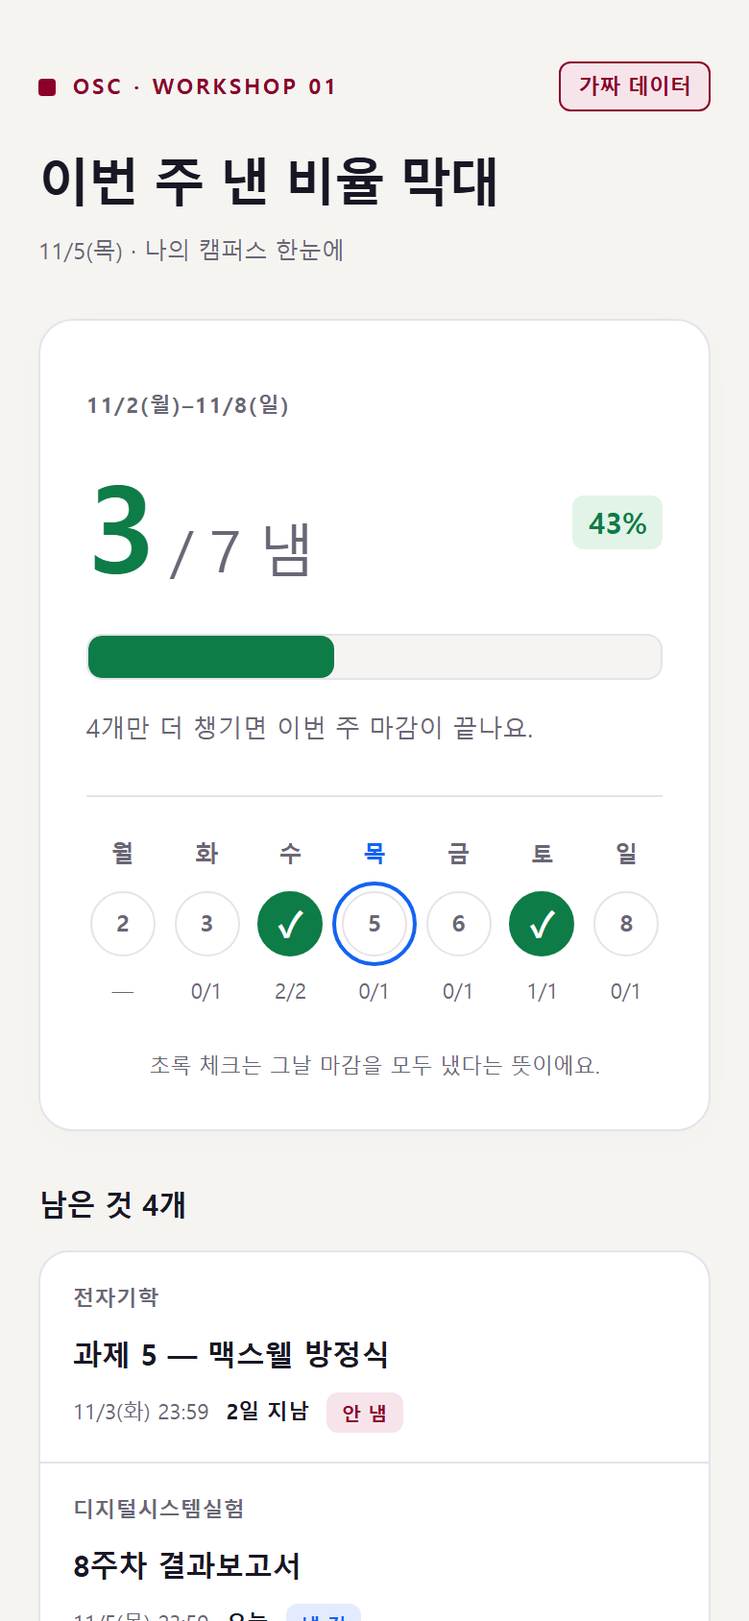
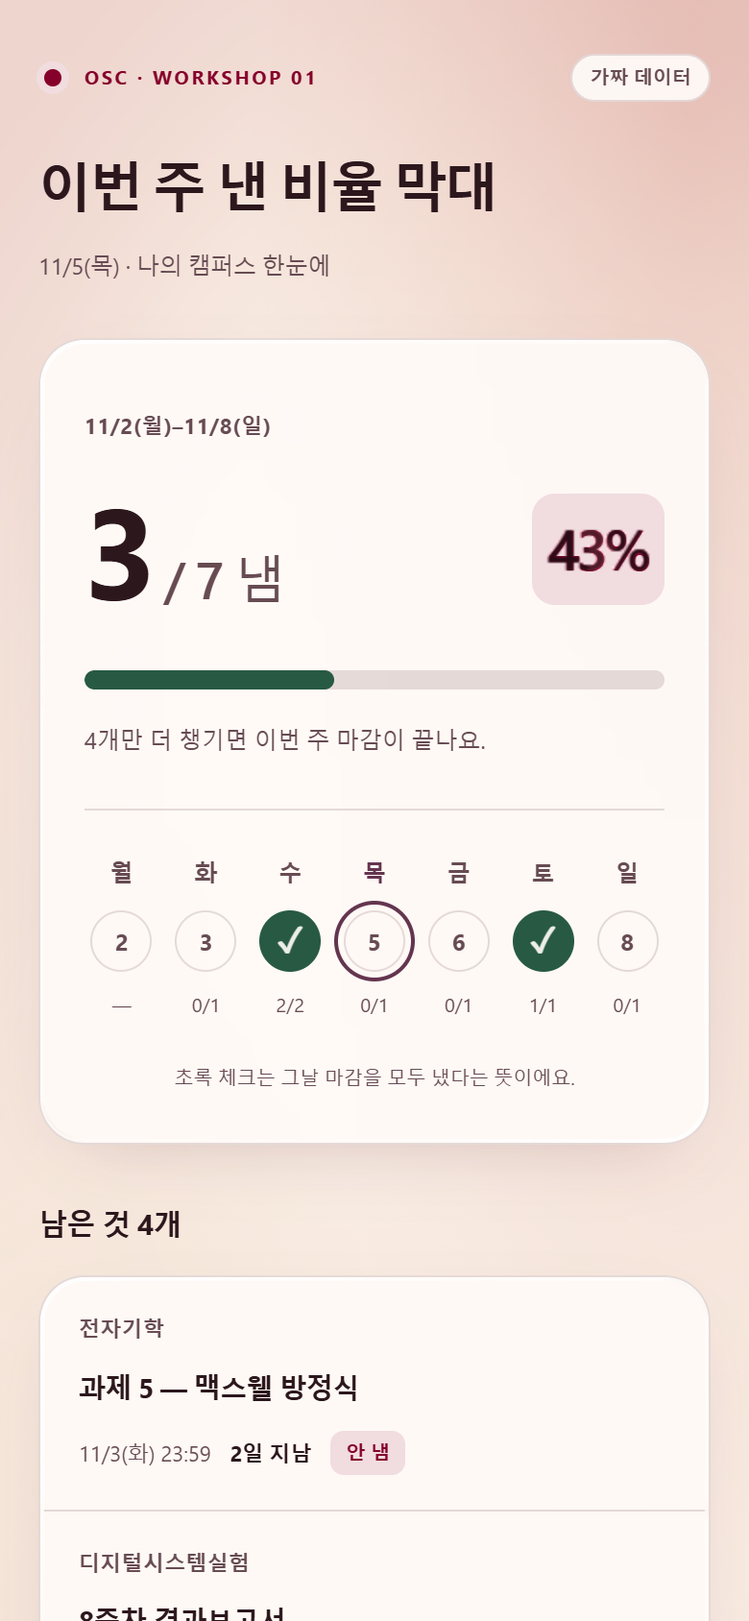
화면 디자인 v2: 그라데이션 바탕·유리 카드·금속 숫자
스크랩한 저장소 넷(ShaderGradient, liquid-logo, liquid-glass-js,
react-three-fiber)의 기법을 라이브러리 없이 인라인 WebGL/CSS로 옮김.
출력은 여전히 한 파일, 외부 요청 0. README BONUS 장 번호 39장으로.

Claude-Session: https://claude.ai/code/session_01FeLyEiJXykZiSBiLt2XKtj

diff --git a/dash.py b/dash.py
@@ -523,6 +523,126 @@ details{min-width:0}summary{min-height:44px;padding:12px 0;font-weight:700;overf
 '''
 
 
+_GLASS_CREDIT = '''<!-- Glass edge technique inspired by liquid-glass-js (MIT, Copyright (c) 2025 Armagan Amcalar).
+Original compact CSS/SVG implementation; no library or screenshot capture code is bundled.
+Permission is hereby granted, free of charge, to any person obtaining a copy of this software and associated documentation files (the "Software"), to deal in the Software without restriction, including without limitation the rights to use, copy, modify, merge, publish, distribute, sublicense, and/or sell copies of the Software, and to permit persons to whom the Software is furnished to do so, subject to the following conditions: The above copyright notice and this permission notice shall be included in all copies or substantial portions of the Software. THE SOFTWARE IS PROVIDED "AS IS", WITHOUT WARRANTY OF ANY KIND, EXPRESS OR IMPLIED, INCLUDING BUT NOT LIMITED TO THE WARRANTIES OF MERCHANTABILITY, FITNESS FOR A PARTICULAR PURPOSE AND NONINFRINGEMENT. IN NO EVENT SHALL THE AUTHORS OR COPYRIGHT HOLDERS BE LIABLE FOR ANY CLAIM, DAMAGES OR OTHER LIABILITY, WHETHER IN AN ACTION OF CONTRACT, TORT OR OTHERWISE, ARISING FROM, OUT OF OR IN CONNECTION WITH THE SOFTWARE OR THE USE OR OTHER DEALINGS IN THE SOFTWARE.
+-->
+'''
+
+_GLASS_SVG = '''<svg class="glass-defs" width="0" height="0" aria-hidden="true" focusable="false"><defs><filter id="osc-glass-edge" x="-10%" y="-10%" width="120%" height="120%" color-interpolation-filters="sRGB"><feTurbulence type="fractalNoise" baseFrequency=".012 .035" numOctaves="1" seed="8" result="edgeNoise"/><feDisplacementMap in="SourceGraphic" in2="edgeNoise" scale="5" xChannelSelector="R" yChannelSelector="G"/></filter></defs></svg>'''
+
+_POLISH_CSS = r'''
+:root{--bg:#f6ece4;--paper:rgba(255,251,247,.92);--ink:#2c171d;--muted:#674b53;--line:rgba(92,47,58,.16);--crimson:#85002a;--green:#285a43;--blue:#64354f;--rose:#f1dce0;--mint:#e2ebe1;--sky:#eee2e9;--shadow:0 14px 40px -24px rgba(70,11,33,.30),inset 0 1px 0 rgba(255,255,255,.95);--rim:rgba(255,255,255,.88);--glass-solid:#fff8f2}
+@media(prefers-color-scheme:dark){:root{--bg:#190b13;--paper:rgba(35,18,28,.94);--ink:#fff3eb;--muted:#d9bec4;--line:rgba(240,204,202,.20);--crimson:#f2b2bf;--green:#b3dfc1;--blue:#e3c2da;--rose:#48212f;--mint:#223b2c;--sky:#3b2839;--shadow:0 18px 46px -20px #05010688,inset 0 1px 0 #f8dac326;--rim:rgba(255,234,217,.34);--glass-solid:#24121d}}
+html{font-family:-apple-system,BlinkMacSystemFont,"Segoe UI","Apple SD Gothic Neo","Malgun Gothic",sans-serif;line-height:1.7;background:var(--bg);color:var(--ink)}
+body{min-width:0;background:transparent}main{padding:28px 20px 32px;max-width:800px;position:relative}main.wide{max-width:1160px}.glass-defs{position:absolute;overflow:hidden;pointer-events:none}
+.page-head{margin-bottom:28px}.brandline{margin-bottom:26px;gap:8px}.wordmark{font-size:10px;letter-spacing:1.3px;font-weight:750;color:var(--crimson)}.wordmark:before{width:9px;height:9px;border-radius:50%;box-shadow:0 0 0 4px var(--rose);margin:0 3px}
+.sample-badge{color:var(--muted);background:var(--paper);border:1px solid var(--line);border-radius:99px;font-size:10px;font-weight:600;padding:3px 9px}
+h1{font-size:28px;line-height:1.32;letter-spacing:-1.4px;font-weight:750;margin:0 0 12px;max-width:680px}.head-date{font-size:12px;letter-spacing:-.15px;color:var(--muted)}
+.section{margin:29px 0}.section-head{font-size:15px;font-weight:750;letter-spacing:-.35px;margin-bottom:14px}.eyebrow,.course{font-size:11px;font-weight:650;letter-spacing:.15px;color:var(--muted)}.eyebrow{letter-spacing:.4px}.course{line-height:1.6}
+.card,.task-list,.missing-hero,.empty,.sq-results,.sq-quest-list{position:relative;isolation:isolate;background:var(--paper);border:1px solid var(--line);border-radius:24px;box-shadow:var(--shadow);-webkit-backdrop-filter:blur(18px) saturate(1.08);backdrop-filter:blur(18px) saturate(1.08)}
+.card:before,.task-list:before,.missing-hero:before,.sq-results:before,.sq-quest-list:before{content:"";position:absolute;inset:0;padding:2px;border-radius:inherit;pointer-events:none;z-index:2;background:linear-gradient(135deg,var(--rim),transparent 26%,transparent 65%,var(--rim));-webkit-mask:linear-gradient(#fff 0 0) content-box,linear-gradient(#fff 0 0);-webkit-mask-composite:xor;mask:linear-gradient(#fff 0 0) content-box,linear-gradient(#fff 0 0);mask-composite:exclude;-webkit-backdrop-filter:blur(3px);backdrop-filter:blur(3px) url(#osc-glass-edge)}
+.card{padding:24px}.task-list{overflow:hidden}.task-row{padding:18px 20px}.task-row+.task-row{border-top:1px solid var(--line)}.task-title{font-size:14px;font-weight:650;letter-spacing:-.25px;line-height:1.6}.task-title a{padding:4px 0;min-height:44px}.meta{font-size:11px;gap:7px 10px;line-height:1.6}.due-tag{font-weight:650}
+.pill{font-size:10px;font-weight:650;letter-spacing:0;padding:4px 8px;border-radius:7px}.empty{border-style:dashed;padding:28px 20px}.empty p{font-size:13px}.hero-note{opacity:1}.page-foot{font-size:10px;line-height:1.9;margin-top:34px;border-color:var(--line);padding:18px 2px;color:var(--muted)}
+button{box-shadow:inset 0 1px 0 var(--rim);border-radius:99px}button:hover{border-color:var(--crimson)}a:focus-visible,button:focus-visible,summary:focus-visible,input:focus-visible{outline-color:var(--crimson)}
+.missing-hero{padding:26px 24px;color:var(--ink);background:var(--paper)}.missing-hero .eyebrow{color:var(--muted)}.missing-hero h2{font-size:24px;margin:13px 0 18px;line-height:1.1;letter-spacing:-1px}.missing-hero strong{font-size:76px;letter-spacing:-4px;font-weight:650;color:var(--crimson)}.missing-hero p{font-size:12px;color:var(--ink)}.hero-note{color:var(--muted)}
+.cal-board.card{padding:24px 0 0}.cal-month-head{padding:0 22px;align-items:center}.cal-month-head h2{font-size:15px;letter-spacing:-.3px;font-weight:500;display:flex;gap:12px;align-items:baseline;margin-top:8px}.cal-month-head h2 strong{font-size:60px;line-height:1.12;letter-spacing:-3px;font-weight:650;color:var(--crimson)}.cal-month-head .eyebrow{font-size:11px;margin:0}.cal-today-label{border:1px solid var(--line);color:var(--crimson);background:var(--rose);font-size:11px;padding:5px 9px;border-radius:99px}
+.cal-legend{padding:17px 22px;gap:14px;font-size:11px}.cal-legend i{width:6px;height:6px;border-radius:50%}.cal-weekdays{padding:9px 0;background:transparent;font-size:10px;border-top-color:var(--line)}.cal-day{min-height:75px;padding:4px 2px;border-color:var(--line)}.cal-blank{background:transparent}.cal-date{font-size:11px;font-weight:600;width:24px;height:24px;margin:0 auto 4px;font-variant-numeric:tabular-nums}.cal-today{background:var(--rose)}.cal-today .cal-date{border:0;background:var(--crimson);color:var(--glass-solid);box-shadow:0 0 0 2px var(--paper);font-weight:750}.cal-chip{border-radius:5px;font-size:10px;line-height:1.2;min-height:40px}.cal-chip-title a,.cal-chip-title>span{min-width:0;min-height:40px;line-height:28px;padding:6px 2px 6px 12px;font-weight:600}.cal-check{left:2px;width:7px;height:7px;top:17px;font-size:7px}.cal-chips{gap:3px}.cal-todo{color:var(--ink);background:var(--sky)}.cal-grid-note{font-size:10px;padding:0 18px 14px;margin:12px 0 0}.cal-agenda-date{margin-bottom:10px;padding:0 3px}.cal-agenda-date h3{font-size:13px}.cal-event-row.card{border:0;box-shadow:none;border-radius:0;background:transparent;padding:18px 20px}.cal-event-row:before{display:none}.cal-agenda-day .task-list{display:block}
+.mat-intro.card{padding:26px 24px;background:var(--paper);margin-bottom:24px}.mat-lead{font-size:21px;line-height:1.4;font-weight:650;margin:12px 0 20px;letter-spacing:-.65px}.mat-overall{font-size:14px;margin:0 0 20px;color:var(--crimson);line-height:1.4}.mat-overall strong{font-size:56px;font-weight:650;letter-spacing:-2.5px;margin-left:7px}.mat-overall strong span{font-size:27px;font-weight:450;letter-spacing:-1px}.mat-intro .muted{font-size:12px;line-height:1.85}.materials-list{gap:18px}.mat-course.card{padding:0}.mat-course>summary{padding:18px 20px;min-height:72px;gap:8px}.mat-course-name{font-size:16px;font-weight:700;letter-spacing:-.4px}.mat-counter{font-size:11px;font-weight:500;color:var(--muted)}.mat-weeks{padding:0 18px 10px}.mat-week>summary{min-height:62px;gap:7px}.mat-week-heading{font-size:13px;font-weight:650;gap:5px}.mat-latest{font-size:9px;color:var(--crimson);background:var(--rose);border-radius:4px;padding:3px 5px}.mat-row{min-height:60px;gap:8px}.mat-title{font-size:13px;line-height:1.6;letter-spacing:-.1px}.mat-check{min-height:48px;min-width:40px}.mat-check input{width:18px;height:18px}.mat-kind,.mat-kind svg{width:17px}.mat-kind{flex-basis:17px}.mat-subhead{font-size:11px;letter-spacing:.2px}.mat-hidden{font-size:11px;line-height:1.7}
+.week-hero.card{padding:25px 23px}.week-progress-head h2 strong{font-size:66px;color:var(--ink);font-weight:650;letter-spacing:-3px}.week-progress-head h2>span{font-size:27px}.week-percent{font-size:29px;font-weight:600;letter-spacing:-1.5px;padding:7px 8px;border-radius:12px;background:var(--rose);color:var(--crimson)}.week-bar{height:10px;border:0;border-radius:99px;margin-top:25px;background:var(--line)}.week-bar>span{border-radius:99px}.week-encouragement{margin:16px 0 26px;font-size:12px}.week-days{padding-top:22px;gap:5px}.week-day-count{font-size:10px}.week-key{font-size:10px}.week-dot{width:32px;height:32px}.week-completed.card{padding:0}.week-completed-content .card{background:var(--paper)}
+.score-overview{margin:0 0 24px;display:flex;align-items:center;justify-content:space-between;gap:15px;flex-wrap:wrap}.score-overview .eyebrow{margin:0 0 12px}.sq-average{font-size:58px;line-height:1.15;font-weight:650;letter-spacing:-2.5px;color:var(--crimson);font-variant-numeric:tabular-nums}.sq-average>span:not(.sq-number){font-size:24px;letter-spacing:-.5px;margin-left:3px}.score-overview p.muted{font-size:11px;margin:12px 0 0}.sq-toolbar{gap:12px;align-items:center}.sq-toolbar p{font-size:12px}.sq-toolbar button{border-radius:99px;font-size:11px;padding:10px 13px;min-height:44px}.sq-score-grid{gap:12px}.sq-score-card.card{padding:19px 16px;border-radius:20px}.sq-course-title{font-size:13px;min-height:44px;margin-bottom:16px;font-weight:650}.sq-score{font-size:31px;font-weight:650;letter-spacing:-1.7px}.sq-grade{color:var(--crimson);font-size:11px}.sq-score-bar{height:3px;margin-top:15px}.sq-score-bar>span{background:var(--crimson)}.sq-sparkline polyline{stroke:var(--crimson)}.sq-sparkline circle{fill:var(--crimson)}.sq-chart-caption{font-size:10px}.sq-results{padding:2px 20px;list-style:none}.sq-result-row{gap:10px}.sq-result-score{font-size:12px}.sq-result-percent{font-size:11px}.numbers-hidden .fx-metal{visibility:hidden!important}
+.news-intro.card{background:var(--paper);padding:25px 23px}.news-stats{gap:6px 12px;margin:14px 0 16px;font-size:13px}.news-stats strong{font-size:37px;font-weight:650;letter-spacing:-2px;color:var(--crimson)}.news-intro .muted{font-size:11px}.news-entries.card{padding:0 22px}.news-course-head h2{font-size:14px}.news-entry-head h3{font-size:14px;line-height:1.65;font-weight:650}.news-excerpt{font-size:12px;color:var(--muted);line-height:1.85}.news-time{font-size:10px}.news-dot{background:var(--crimson)}
+.sq-hero.card{background:var(--paper);border-color:var(--line);padding:24px 20px;grid-template-columns:122px minmax(0,1fr);gap:15px}.sq-character-stats h2{font-size:17px;font-weight:650;line-height:1.5}.sq-character-stats .eyebrow{color:var(--muted)}.sq-level{color:var(--crimson);background:var(--rose);font-size:12px;font-weight:700;letter-spacing:.8px;border-color:transparent}.sq-stat-label{font-size:11px}.sq-next-level{font-size:10px;line-height:1.7}.sq-quest-list{padding:0 18px}.sq-xp-reward{font-size:10px;padding:5px 7px}.sq-quest-row{gap:9px}.sq-game-rules{font-size:11px}.sq-quest-help,.sq-quest-intro{font-size:12px}
+@supports not ((backdrop-filter:blur(1px)) or (-webkit-backdrop-filter:blur(1px))){.card,.task-list,.missing-hero,.empty,.sq-results,.sq-quest-list{background:var(--glass-solid)}.card:before,.task-list:before,.missing-hero:before,.sq-results:before,.sq-quest-list:before{backdrop-filter:none;background:linear-gradient(135deg,var(--rim),transparent 40%)}}
+@media(min-width:760px){main{padding:48px 32px 40px}h1{font-size:36px;letter-spacing:-1.7px}.brandline{margin-bottom:30px}.page-head{margin-bottom:34px}.card{padding:30px}.task-row{padding:20px 24px}.mat-intro.card{padding:32px}.mat-overall strong{font-size:70px}.missing-hero{padding:32px}.sq-hero.card{padding:30px;grid-template-columns:180px minmax(0,1fr);gap:30px}.sq-score-card.card{padding:24px 20px}.sq-course-title{font-size:15px}.sq-score{font-size:38px}.sq-results{padding:4px 24px}.cal-day{min-height:83px;padding:6px 4px}.cal-date{margin:0 0 5px auto}.cal-chip-title a,.cal-chip-title>span{padding-left:15px}.cal-check{left:4px}.cal-chip{font-size:11px}.week-hero.card{padding:32px}.week-percent{font-size:36px}}
+@media(min-width:1060px){.view-calendar main{display:grid;grid-template-columns:minmax(0,1.65fr) minmax(0,1fr);gap:0 28px;align-items:start}.view-calendar .page-head,.view-calendar .page-foot{grid-column:1/-1}.view-calendar .cal-board{grid-column:1;grid-row:2}.view-calendar main>.section{grid-column:2;margin:0 0 26px}.view-calendar .cal-agenda-day{margin-bottom:20px}.view-calendar .cal-agenda-day .task-row,.view-calendar .cal-event-row.card{padding:16px 18px}.view-calendar .cal-month-head h2 strong{font-size:70px}.view-materials main{max-width:1100px;display:grid;grid-template-columns:minmax(0,.82fr) minmax(0,1.18fr);gap:0 28px;align-items:start}.view-materials .page-head,.view-materials .page-foot{grid-column:1/-1}.view-materials .mat-intro{position:sticky;top:28px}.view-materials .materials-list{grid-column:2}.view-materials .mat-overall strong{font-size:72px}}
+@media(max-width:370px){main{padding-left:16px;padding-right:16px}.cal-month-head h2 strong{font-size:52px}.week-progress-head h2 strong{font-size:52px}.week-progress-head h2>span{font-size:23px}.week-percent{font-size:24px}.mat-course>summary{padding-left:16px;padding-right:16px}.sq-hero.card{grid-template-columns:104px minmax(0,1fr);padding:22px 16px;gap:10px}}
+'''
+
+
+# Original, self-contained shaders; no third-party shader source copied.
+_FX_CREDIT = '''<!-- Visual technique references: ruucm/shadergradient (package MIT, no root LICENSE: idea only); paper-design/liquid-logo (PolyForm Shield 1.0.0: idea only); pmndrs/react-three-fiber (MIT, Poimandres: scene and render-loop concepts only). All GLSL and WebGL code below is original. No React, Three.js, fonts, or network assets are included. -->'''
+
+_FX_HTML = '<canvas class="fx-bg" aria-hidden="true" data-fx="pending"></canvas>'
+
+_FX_CSS = r'''
+body{isolation:isolate;background:radial-gradient(ellipse at 92% 4%,#e6b9ae 0,transparent 45%),radial-gradient(ellipse at 8% 75%,#eed5c2 0,transparent 52%),#faf1e8}
+body>main{position:relative;z-index:1}.fx-bg{position:fixed;inset:0;width:100%;height:100%;z-index:0;pointer-events:none;opacity:.56}
+.fx-metal-target{position:relative;display:inline-block;vertical-align:baseline}.fx-metal{position:absolute;inset:0;width:100%;height:100%;pointer-events:none;z-index:1}.numbers-hidden .fx-metal{visibility:hidden!important}
+@media(prefers-color-scheme:dark){body{background:radial-gradient(ellipse at 95% 0,#4b102b 0,transparent 50%),radial-gradient(ellipse at 5% 80%,#351423 0,transparent 55%),#160c14}.fx-bg{opacity:.7}}
+@media print{.fx-bg,.fx-metal{display:none!important}}
+'''
+
+_FX_JS = r'''
+(function(){
+'use strict';
+var bg=document.querySelector('.fx-bg');if(!bg)return;
+var dark=matchMedia('(prefers-color-scheme: dark)'),reduced=matchMedia('(prefers-reduced-motion: reduce)');
+var state=window.__oscFx={background:false,metal:false,frames:0,metalFrames:0,fpsLimit:24,dpr:1,reduced:reduced.matches,paused:document.hidden,errors:[]};
+var jobs=[],raf=0,last=-1000,elapsed=0,previous=0;
+function program(canvas,vertex,fragment){
+ var gl=canvas.getContext('webgl',{alpha:true,antialias:false,preserveDrawingBuffer:true,powerPreference:'low-power'});
+ if(!gl){canvas.dataset.fx='fallback';canvas.style.display='none';return null;}
+ function shader(type,src){var s=gl.createShader(type);gl.shaderSource(s,src);gl.compileShader(s);if(!gl.getShaderParameter(s,gl.COMPILE_STATUS)){throw new Error(gl.getShaderInfoLog(s));}return s;}
+ var p=gl.createProgram();gl.attachShader(p,shader(gl.VERTEX_SHADER,vertex));gl.attachShader(p,shader(gl.FRAGMENT_SHADER,fragment));gl.linkProgram(p);
+ if(!gl.getProgramParameter(p,gl.LINK_STATUS))throw new Error(gl.getProgramInfoLog(p));gl.useProgram(p);
+ canvas.dataset.fx='ready';canvas.addEventListener('webglcontextlost',function(e){e.preventDefault();canvas.style.display='none';canvas.dataset.fx='fallback';});
+ return {gl:gl,p:p,uniform:function(n){return gl.getUniformLocation(p,n);}};
+}
+function buffer(gl,p,data){var b=gl.createBuffer();gl.bindBuffer(gl.ARRAY_BUFFER,b);gl.bufferData(gl.ARRAY_BUFFER,new Float32Array(data),gl.STATIC_DRAW);var a=gl.getAttribLocation(p,'a');gl.enableVertexAttribArray(a);gl.vertexAttribPointer(a,2,gl.FLOAT,false,0,0);}
+var noise='float hash3(vec3 p){return fract(sin(dot(p,vec3(17.17,71.31,153.17)))*17351.719);}float noise3(vec3 p){vec3 i=floor(p),f=fract(p);f=f*f*(3.0-2.0*f);float a=mix(hash3(i),hash3(i+vec3(1,0,0)),f.x);float b=mix(hash3(i+vec3(0,1,0)),hash3(i+vec3(1,1,0)),f.x);float c=mix(hash3(i+vec3(0,0,1)),hash3(i+vec3(1,0,1)),f.x);float d=mix(hash3(i+vec3(0,1,1)),hash3(i+vec3(1,1,1)),f.x);return mix(mix(a,b,f.y),mix(c,d,f.y),f.z);}';
+try{
+ var scene=program(bg,'precision mediump float;attribute vec2 a;uniform float t,aspect;varying vec2 uv;varying float elevation;'+noise+'void main(){uv=a*.5+.5;vec3 q=vec3(a*1.14,t*.035);float n=noise3(q)+.34*noise3(q*2.7+4.0);float z=(n-.65)*1.8;vec3 world=vec3(a.x*aspect*5.6,a.y*5.6,z);float cy=cos(.18),sy=sin(.18);world.yz=mat2(cy,-sy,sy,cy)*world.yz;float depth=6.0-world.z;gl_Position=vec4(world.x*1.6/aspect,world.y*1.6,0.0,depth);elevation=n;}',
+ 'precision mediump float;uniform float t,darkMode;varying vec2 uv;varying float elevation;'+noise+'void main(){float drift=noise3(vec3(uv*2.0,t*.022));float bloom=smoothstep(.42,.92,drift+.16*elevation);vec3 cream=vec3(.945,.839,.761),beige=vec3(.867,.655,.545),crimson=vec3(.545,0.,.157),ink=vec3(.086,.016,.024);vec3 light=mix(mix(cream,vec3(1.0),.53),beige,.19*bloom);light=mix(light,crimson,.15*bloom*bloom);vec3 night=mix(ink,crimson,.09+.29*bloom);night+=vec3(.018,.008,.023)*elevation;gl_FragColor=vec4(mix(light,night,darkMode),1.0);}');
+ if(scene){var mesh=[],nx=56,ny=48;for(var y=0;y<ny;y++)for(var x=0;x<nx;x++){var x0=x/nx*2-1,x1=(x+1)/nx*2-1,y0=y/ny*2-1,y1=(y+1)/ny*2-1;mesh.push(x0,y0,x1,y0,x0,y1,x0,y1,x1,y0,x1,y1);}buffer(scene.gl,scene.p,mesh);var st=scene.uniform('t'),sa=scene.uniform('aspect'),sd=scene.uniform('darkMode');
+ jobs.push(function(time){var gl=scene.gl,w=Math.max(1,innerWidth),h=Math.max(1,innerHeight);if(bg.width!==w||bg.height!==h){bg.width=w;bg.height=h;}gl.viewport(0,0,w,h);gl.uniform1f(st,time);gl.uniform1f(sa,w/h);gl.uniform1f(sd,dark.matches?1:0);gl.drawArrays(gl.TRIANGLES,0,mesh.length/2);state.frames++;});state.background=true;}
+}catch(e){state.errors.push(String(e));bg.dataset.fx='fallback';bg.style.display='none';}
+var target=document.querySelector('.missing-hero strong,.cal-month-head h2 strong,#mat-overall,.week-percent,.sq-average,.news-stats strong,.sq-level');
+if(!target&&document.body.classList.contains('view-scores'))target=document.querySelector('.sq-score');
+if(target){try{
+ var wrap=document.createElement('span');wrap.className='fx-metal-target';target.parentNode.insertBefore(wrap,target);wrap.appendChild(target);
+ var metal=document.createElement('canvas');metal.className='fx-metal';metal.setAttribute('aria-hidden','true');metal.dataset.fx='pending';wrap.appendChild(metal);
+ var m=program(metal,'attribute vec2 a;varying vec2 uv;void main(){uv=a*.5+.5;gl_Position=vec4(a,0,1);}',
+ 'precision mediump float;varying vec2 uv;uniform sampler2D mask;uniform vec2 pixel;uniform float t,darkMode;void main(){vec2 p=vec2(uv.x,1.-uv.y);float alpha=texture2D(mask,p).a;if(alpha<.01){gl_FragColor=vec4(0);return;}float gx=texture2D(mask,p+vec2(pixel.x,0)).a-texture2D(mask,p-vec2(pixel.x,0)).a;float gy=texture2D(mask,p+vec2(0,pixel.y)).a-texture2D(mask,p-vec2(0,pixel.y)).a;float wave=sin(p.x*10.5+p.y*5.2+sin(p.y*7.8-t*.37)*1.45+t*.21);float sheen=smoothstep(.22,.72,wave);float rim=clamp(abs(gx)+abs(gy),0.,1.);vec3 low=mix(vec3(.13,.025,.065),vec3(.77,.67,.63),darkMode);vec3 high=mix(vec3(.34,.12,.18),vec3(1.,.94,.86),darkMode);vec3 color=mix(low,high,clamp(.14+sheen*.69+rim*.17,0.,1.));gl_FragColor=vec4(color,alpha);}');
+ if(m){buffer(m.gl,m.p,[-1,-1,1,-1,-1,1,-1,1,1,-1,1,1]);var tex=m.gl.createTexture();m.gl.bindTexture(m.gl.TEXTURE_2D,tex);m.gl.texParameteri(m.gl.TEXTURE_2D,m.gl.TEXTURE_WRAP_S,m.gl.CLAMP_TO_EDGE);m.gl.texParameteri(m.gl.TEXTURE_2D,m.gl.TEXTURE_WRAP_T,m.gl.CLAMP_TO_EDGE);m.gl.texParameteri(m.gl.TEXTURE_2D,m.gl.TEXTURE_MIN_FILTER,m.gl.LINEAR);m.gl.texParameteri(m.gl.TEXTURE_2D,m.gl.TEXTURE_MAG_FILTER,m.gl.LINEAR);
+ var mask=document.createElement('canvas'),ctx=mask.getContext('2d'),mt=m.uniform('t'),md=m.uniform('darkMode'),mp=m.uniform('pixel'),dirty=true,lastText='';
+ function updateMask(){
+  var r=wrap.getBoundingClientRect(),w=Math.max(1,Math.ceil(r.width)),h=Math.max(1,Math.ceil(r.height)),text=target.textContent;
+  if(!dirty&&text===lastText&&metal.width===w&&metal.height===h)return;
+  dirty=false;lastText=text;metal.width=mask.width=w;metal.height=mask.height=h;ctx.textAlign='left';ctx.textBaseline='alphabetic';ctx.fillStyle='#fff';
+  var walker=document.createTreeWalker(target,NodeFilter.SHOW_TEXT),node,range=document.createRange();
+  while((node=walker.nextNode())){
+   var s=getComputedStyle(node.parentElement);if(s.visibility==='hidden'||s.display==='none')continue;
+   ctx.font=s.fontStyle+' '+s.fontWeight+' '+s.fontSize+' '+s.fontFamily;
+   if('fontKerning' in ctx)ctx.fontKerning=s.fontKerning;
+   if('letterSpacing' in ctx)ctx.letterSpacing=s.letterSpacing==='normal'?'0px':s.letterSpacing;
+   var offset=0;
+   Array.from(node.nodeValue).forEach(function(letter){
+    range.setStart(node,offset);offset+=letter.length;range.setEnd(node,offset);
+    if(!letter.trim())return;var rect=range.getBoundingClientRect();if(!rect.width||!rect.height)return;
+    var metric=ctx.measureText(letter),ascent=metric.fontBoundingBoxAscent||parseFloat(s.fontSize)*.8,descent=metric.fontBoundingBoxDescent||parseFloat(s.fontSize)*.2;
+    var baseline=rect.top-r.top+(rect.height-ascent-descent)/2+ascent;
+    ctx.fillText(letter,rect.left-r.left,baseline);
+   });
+  }
+  m.gl.bindTexture(m.gl.TEXTURE_2D,tex);m.gl.texImage2D(m.gl.TEXTURE_2D,0,m.gl.RGBA,m.gl.RGBA,m.gl.UNSIGNED_BYTE,mask);m.gl.uniform2f(mp,1/w,1/h);
+ }
+ jobs.push(function(time){updateMask();var gl=m.gl;gl.viewport(0,0,metal.width,metal.height);gl.uniform1f(mt,time);gl.uniform1f(md,dark.matches?1:0);gl.drawArrays(gl.TRIANGLES,0,6);state.metalFrames++;});state.metal=true;
+ new MutationObserver(function(){dirty=true;invalidate();}).observe(target,{childList:true,characterData:true,subtree:true});
+ if(window.ResizeObserver)new ResizeObserver(function(){dirty=true;invalidate();}).observe(wrap);
+ }
+}catch(e){state.errors.push(String(e));if(metal){metal.dataset.fx='fallback';metal.style.display='none';}}}
+function draw(){jobs.forEach(function(job){job(elapsed);});}
+function tick(ms){raf=0;if(document.hidden||reduced.matches)return;if(ms-last>=1000/24){if(previous)elapsed+=Math.min(.1,(ms-previous)/1000);previous=ms;last=ms;draw();}raf=requestAnimationFrame(tick);}
+function invalidate(){if(document.hidden)return;draw();if(!reduced.matches&&!raf)raf=requestAnimationFrame(tick);}
+function mode(){state.reduced=reduced.matches;cancelAnimationFrame(raf);raf=0;previous=0;invalidate();}
+document.addEventListener('visibilitychange',function(){state.paused=document.hidden;if(document.hidden){cancelAnimationFrame(raf);raf=0;previous=0;}else invalidate();});
+if(dark.addEventListener){dark.addEventListener('change',mode);reduced.addEventListener('change',mode);}else{dark.addListener(mode);reduced.addListener(mode);}
+addEventListener('resize',invalidate);invalidate();
+})();
+'''
+
+
 def _page(slug, data, now, body, css='', js='', wide=False):
     title = next((entry[1] for entry in UIS.values() if entry[0] == slug), '나의 LMS')
     generated = _dt(data.get('generated_at')) or _dt(now)
@@ -530,12 +650,13 @@ def _page(slug, data, now, body, css='', js='', wide=False):
     footer = f'고려대 LMS에서 {_date(generated)}에 받음 · 조회만 했어요 · OSC 고려대 Workshop 01'
     return ('<!doctype html><html lang="ko"><head><meta charset="utf-8">'
             '<meta name="viewport" content="width=device-width, initial-scale=1">'
-            f'<title>{_e(title)}</title><style>{_VIEW_CSS}\n{css}</style></head>'
-            f'<body class="view-{_e(slug)}"><main class="{"wide" if wide else "column"}">'
+            f'<title>{_e(title)}</title>{_GLASS_CREDIT}{_FX_CREDIT}'
+            f'<style>{_VIEW_CSS}\n{css}\n{_POLISH_CSS}\n{_FX_CSS}</style></head>'
+            f'<body class="view-{_e(slug)}">{_GLASS_SVG}{_FX_HTML}<main class="{"wide" if wide else "column"}">'
             f'<header class="page-head"><div class="brandline"><div class="wordmark">OSC · WORKSHOP 01</div>{badge}</div>'
             f'<h1>{_e(title)}</h1><p class="head-date">{_e(_date(now, False))} · 나의 캠퍼스 한눈에</p></header>'
             f'{body}<footer class="page-foot"><p>{_e(footer)}</p></footer></main>'
-            + (f'<script>{js}</script>' if js else '') + '</body></html>')
+            + (f'<script>{js}</script>' if js else '') + f'<script>{_FX_JS}</script></body></html>')
 
 
 def render_missing(data: dict, now: datetime) -> str:
@@ -1017,6 +1138,16 @@ def render_scores(data: dict, now: datetime) -> str:
                       f'<div class="sq-result-score"><strong>{mark}</strong>{ratio_text}</div></li>')
     body = ('<div class="sq-toolbar"><p class="muted">점수와 쌓여 온 기록을 한눈에 봐요.</p>'
             '<button id="sq-privacy" type="button" hidden aria-pressed="false">숫자 가리기</button></div>')
+    # The v2 hero shows the unweighted mean of available course scores.
+    # Existing per-course scores, chart data, and privacy behavior stay unchanged.
+    available_scores = [_number(course.get("score")) for course in courses]
+    available_scores = [score for score in available_scores if score is not None]
+    average = (f'{sum(available_scores) / len(available_scores):.1f}<span>%</span>'
+               if available_scores else '<span>점수 없음</span>')
+    overview = ('<section class="card score-overview"><div><p class="eyebrow">현재 점수 평균</p>'
+                f'<div class="sq-average">{average}</div>'
+                f'<p class="muted">점수가 있는 {len(available_scores)}개 과목의 단순 평균</p></div></section>')
+    body = overview + body
     body += (f'<div class="sq-score-grid">{"".join(cards)}</div>' if cards
              else _empty("아직 표시할 과목이 없어요. 과목이 생기면 점수를 함께 볼 수 있어요."))
     body += _section("최근 채점", '<ul class="sq-results">' + "".join(recent) + '</ul>'

diff --git a/README.md b/README.md
@@ -79,7 +79,7 @@ https://raw.githubusercontent.com/Bemyvendelime/osc-ku-w1-dashboards/main/dash.p
 
 조회(GET)만 하고, 토큰은 답에 다시 적지 마.
 ```
-**알림도 받으려면**: 덱 BONUS(38장~) '구글 캘린더에 마감 넣기'를 이어서 해요. 캘린더 앱이 하루 전·3시간 전에 폰으로 알려 줘요.
+**알림도 받으려면**: 덱 BONUS(39장~) '구글 캘린더에 마감 넣기'를 이어서 해요. 캘린더 앱이 하루 전·3시간 전에 폰으로 알려 줘요.
 
 <a id="ui3"></a>
 
@@ -261,3 +261,10 @@ CANVAS_TOKEN=... python dash.py --ui 1   # 내 LMS로 (Windows PowerShell: $env:
 API key는 7일 뒤 저절로 만료돼요. 스튜디오 아워(매주 수 19:00)에서 학기 끝까지 쓸 key로 다시 만들고, 오늘 요청을 알리미로 키워요.
 
 OSC 고려대 · OpenAI Student Collective Korea University
+
+## 디자인 출처
+
+- [ShaderGradient](https://github.com/ruucm/shadergradient) — 패키지 `@shadergradient/react`는 MIT 표기이나 루트 LICENSE는 없음; 노이즈로 변형한 평면과 원근 카메라 아이디어를 참고해 모든 HTML 배경의 작은 WebGL 셰이더를 독자 구현했습니다.
+- [liquid-logo](https://github.com/paper-design/liquid-logo) — PolyForm Shield 1.0.0(경쟁 제한 포함)이므로 코드를 복사하지 않고, 각 화면 핵심 숫자에 흐르는 금속 반사 아이디어만 독자 셰이더로 구현했습니다.
+- [liquid-glass-js](https://github.com/dashersw/liquid-glass-js) — MIT, © 2025 Armagan Amcalar; 원본 WebGL의 가장자리 굴절·흐림·반사광 원리를 참고해 카드에 가벼운 CSS backdrop blur와 인라인 SVG 가장자리 변위를 독자 구현했습니다.
+- [react-three-fiber](https://github.com/pmndrs/react-three-fiber) — MIT, © 2019–2025 Poimandres; 장면·카메라·렌더 루프 분리 원리를 참고했으며 React/three.js/R3F 없이 인라인 WebGL, 최대 1× DPR·24fps 제한과 정지 상태 처리를 직접 구현했습니다.
